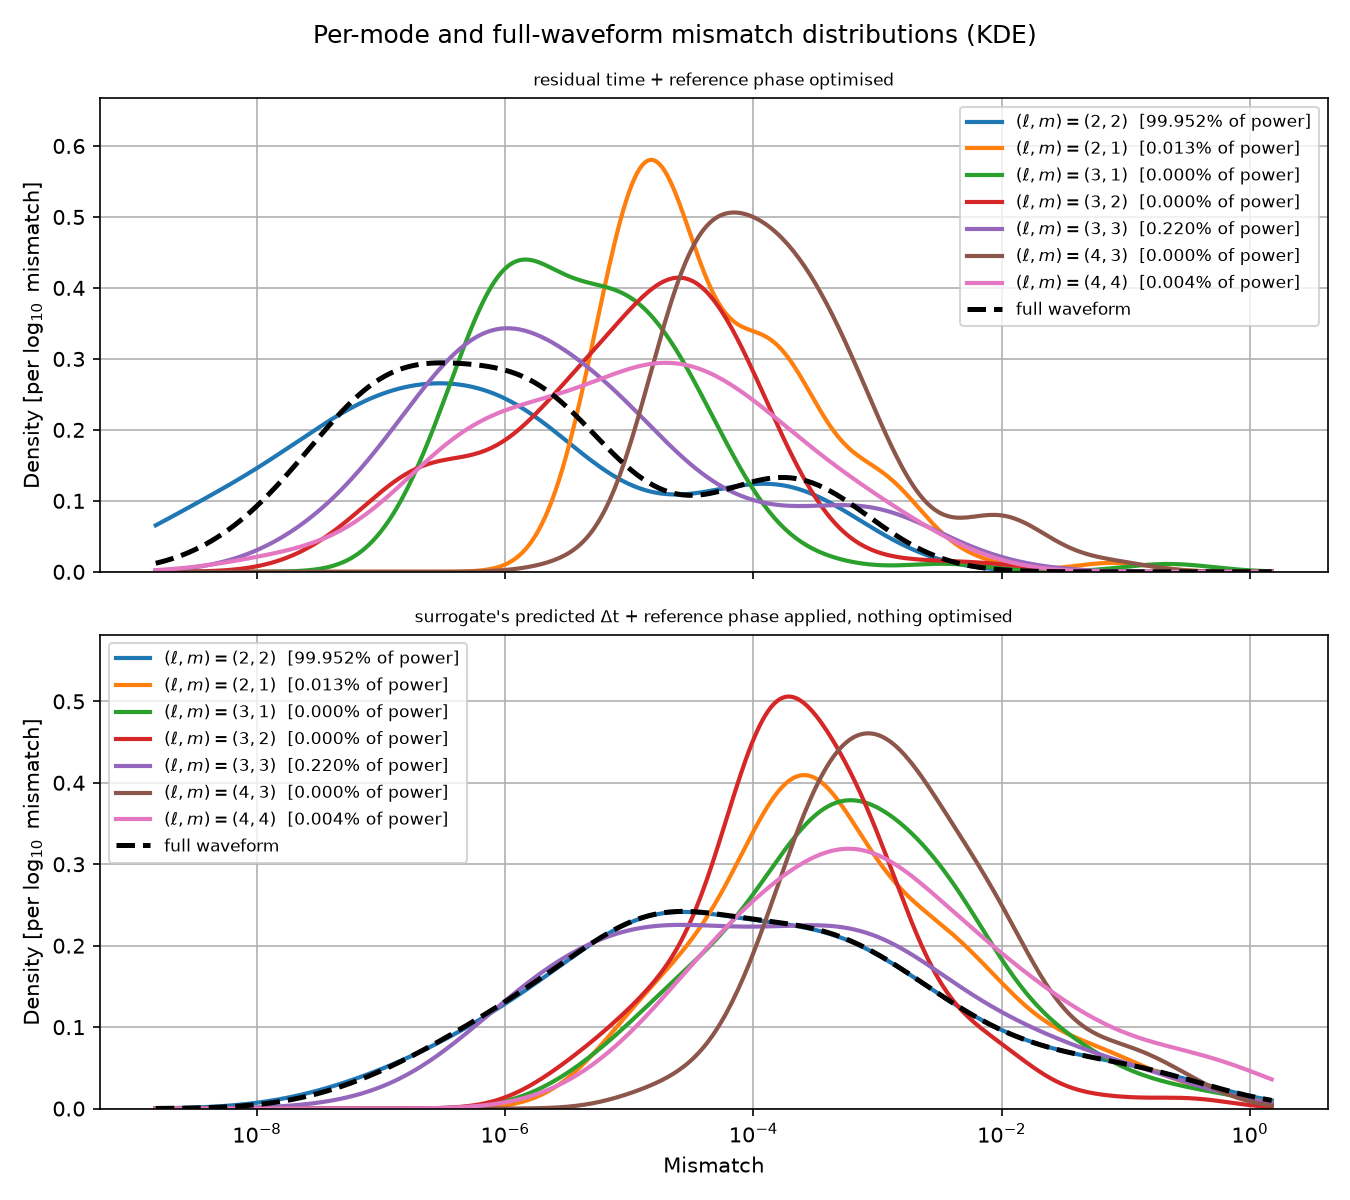
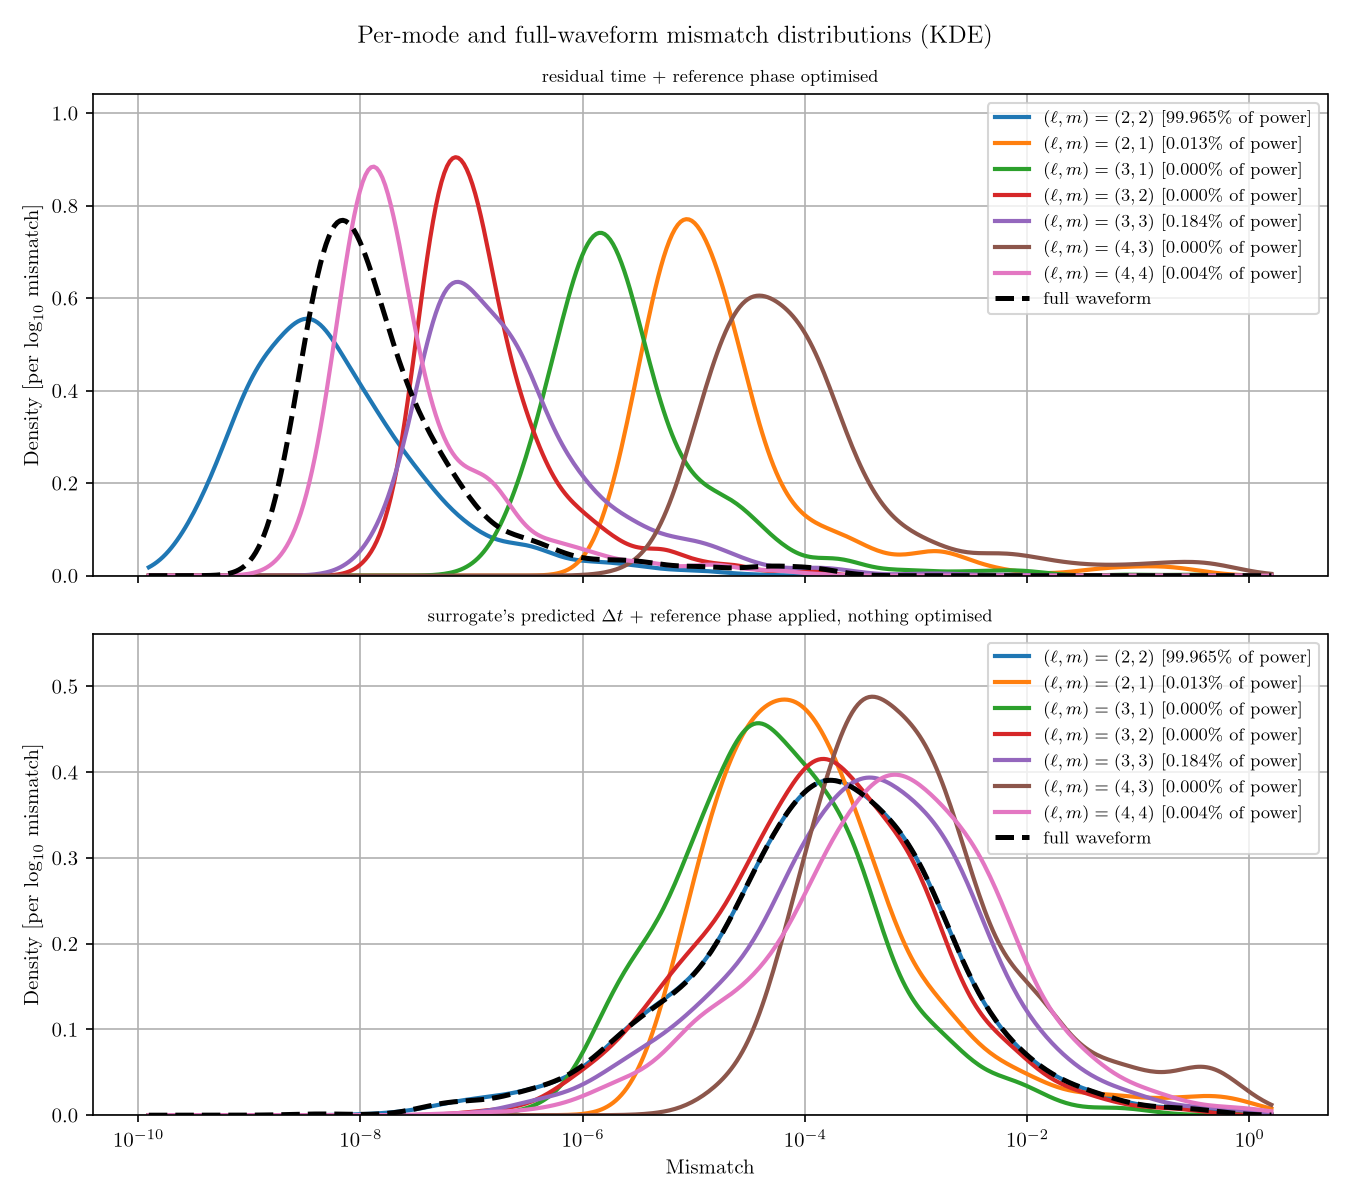
Docs: shipped models and precessing waveforms in the overview, updated to the 2.0 models

Changed region(s): [[0.0, 0.0, 0.9956, 0.9867], [0.0311, 0.925, 0.0622, 0.9558]]

diff --git a/mlgw_bns/data_management.py b/mlgw_bns/data_management.py
@@ -240,7 +240,7 @@ class ParameterRanges(SavableData):
     ----------
     mass_range : tuple[float, float]
             Range of valid total masses, in solar masses.
-            Defaults to (2.5., 4.).
+            Defaults to (2., 4.).
     q_range : tuple[float, float]
             Range of valid mass ratios.
             Defaults to (1., 3.).

diff --git a/docs/usage_guides/overview.md b/docs/usage_guides/overview.md
@@ -8,15 +8,34 @@ A `Model` is a multi-mode surrogate: it holds one `ModeModel` per
 spherical-harmonic mode $(\ell, m)$, and sums their contributions,
 weighted by the spin-weighted spherical harmonics, into the observer-frame
 polarizations $h_+$ and $h_\times$.
-The modes covered by the model shipped with the package are
+The modes covered by the models shipped with the package are
 $(2,2)$, $(2,1)$, $(3,1)$, $(3,2)$, $(3,3)$, $(4,3)$ and $(4,4)$
 (`mlgw_bns.model.DEFAULT_MODES`).
 
-The fastest way to access a functional instance of this object is to use
-the pretrained one:
+(shipped_models)=
+## The shipped models
+
+Two pretrained models come with the package, listed in
+`mlgw_bns.model.MODELS_AVAILABLE`; they differ only in the range of the
+tidal polarizabilities they are trained on (see
+[below](model_parameter_ranges) for the full ranges):
+
+| name | `lambda_1`, `lambda_2` | full-waveform mismatch, median / 90% | merger time error, median / 90% |
+|---|---|---|---|
+| `default_hom` (the default) | 5--2000 | 2.5e-8 / 4.6e-7 | 1.4 / 8.7 $\mu$s |
+| `default_hom_lambda12000` | 5--12000 | 9.1e-7 / 9.8e-6 | 36 / 132 $\mu$s |
+
+Both are trained on the same number of waveforms, so the narrower range is
+sampled more densely, and is more accurate; use `default_hom_lambda12000`
+only if tidal polarizabilities above 2000 are needed.
+
+The fastest way to access a functional instance of a `Model` is to load
+one of them:
 ```python
 from mlgw_bns import Model
-model = Model.default_for_testing()
+
+model = Model.default_for_testing()  # default_hom
+wide_model = Model.default_for_testing("default_hom_lambda12000")
 ```
 By default this loads every shipped mode; a subset can be requested
 instead with the `modes` keyword, which skips loading the files for the
@@ -26,6 +45,18 @@ from mlgw_bns.higher_order_modes import Mode
 
 model = Model.default_for_testing(modes=[Mode(2, 2), Mode(2, 1)])
 ```
+
+The regressors of the models are too large to be included in the package:
+they are downloaded the first time a model is loaded, and cached in
+`~/.cache/mlgw_bns` (or in `$MLGW_BNS_CACHE`, if set; see
+{mod}`mlgw_bns.model_files`). On machines without internet access, such as
+the compute nodes of a cluster, download them beforehand into a cache they
+can see:
+```bash
+MLGW_BNS_CACHE=/shared/mlgw_bns python -m mlgw_bns.model_files download default_hom
+```
+
+## Predicting waveforms
 
 Now we can predict waveforms; in order to do so however we
 pass the parameters through the `ParametersWithExtrinsic` class.
@@ -64,13 +95,79 @@ For many binaries at once, and for JAX, see
 {mod}`mlgw_bns.batched` (`model.predict_modes_amp_phase` and
 `model.jax_modes_amp_phase`).
 
+(precessing_waveforms)=
+## Generating precessing waveforms
+
+The surrogate is aligned-spin; precessing waveforms are obtained from it by
+twisting its multipoles with the Euler angles of the orbital plane, as
+TEOBResumS does (see [](precession) for the details and conventions).
+This is done by a {class}`PrecessingModel <mlgw_bns.precessing_model.PrecessingModel>`
+wrapping one of the models above, and requires the `jax` extra
+(`pip install "mlgw-bns[jax]"`).
+
+The spins are now three-vectors, given at the reference frequency
+`reference_frequency_hz` (the $(2,2)$ gravitational-wave frequency, as
+LALSuite's `f_ref`), in the frame where the orbital angular momentum is
+along $z$ there; `reference_phase` is the orbital phase at that frequency,
+and `azimuth` is the azimuthal angle of the line of sight:
+```python
+from mlgw_bns.precessing_model import PrecessingModel, PrecessingParametersWithExtrinsic
+
+precessing = PrecessingModel(model)
+
+params = PrecessingParametersWithExtrinsic(
+    mass_ratio=1.3,
+    lambda_1=400.0,
+    lambda_2=600.0,
+    chi_1=(0.3, 0.0, 0.05),
+    chi_2=(0.0, -0.3, 0.02),
+    distance_mpc=100.0,
+    inclination=1.0,
+    azimuth=0.3,
+    total_mass=2.8,
+    reference_phase=0.0,
+    reference_frequency_hz=20.0,
+)
+
+hp, hc = precessing.predict(frequencies, params)
+```
+The first call compiles the waveform, which takes a few seconds; later ones
+take ~20 ms. The binary can also be given by the LVK spin angles, as in
+LALSuite and bilby:
+```python
+lvk_params = PrecessingParametersWithExtrinsic.from_lvk(
+    mass_1=1.6,
+    mass_2=1.2,
+    theta_jn=0.5,
+    phi_jl=1.0,
+    tilt_1=0.8,
+    tilt_2=2.0,
+    phi_12=0.4,
+    a_1=0.3,
+    a_2=0.2,
+    phase=0.0,
+    reference_frequency_hz=20.0,
+    lambda_1=300.0,
+    lambda_2=700.0,
+    distance_mpc=40.0,
+)
+```
+
+For many binaries at once, `precessing.jax_predict()` returns a pure JAX
+function of a batch, which can be jitted, vmapped and differentiated;
+{func}`batch_arguments <mlgw_bns.batched_precession.batch_arguments>`
+builds its arguments:
+```python
+import jax
+from mlgw_bns.batched_precession import batch_arguments
+
+predict = jax.jit(precessing.jax_predict())
+hp, hc = predict(*batch_arguments([params, lvk_params], frequencies))
+# hp, hc have shape (2, len(frequencies))
+```
+
 (new_model)=
 ## Making a new model
-
-The simplest thing to do is to use the pretrained model provided with the package:
-```python
-m = Model.default_for_testing()
-```
 
 The way to create a new model from scratch is as follows:
 ```python
@@ -82,7 +179,8 @@ m.set_hyper_and_train_nn()
 ```
 
 For this to work `mlgw_bns` must be able to import
-`EOBRun_module`.
+`EOBRun_module`, from the fork of TEOBResumS the shipped models were
+trained with (see [](install_teobresums)).
 
 We can then save this model to file with `m.save()`; afterwards we
 will be able to recover it with
@@ -97,7 +195,7 @@ Each mode is stored in its own set of files, named
 merger time and coalescence phase of all of them.
 
 The hyperparameters used here are those provided with the package;
-to perform an optimization see [](hyperparameter_optimization).
+to perform an optimization see [](hyperparameter_optimization_section).
 
 ## Working with a single mode
 
@@ -113,7 +211,8 @@ The signature is the same as `Model.predict`. On its own, a mode is
 referenced to its own merger (the tangent to its own phase at the top of
 the band), which is the right one only for the $(2,2)$.
 
-### The parameter ranges for a new model
+(model_parameter_ranges)=
+## The parameter ranges
 
 These may change as the package is updated. For the default pretrained
 model shipped with the package, `default_hom`, the current ranges are
@@ -126,14 +225,11 @@ model shipped with the package, `default_hom`, the current ranges are
 - `chi_2`: between -0.5 and 0.5
 - frequencies: between 5 and 2048 Hz
 
-The other one, `default_hom_lambda12000`
-(`Model.default_for_testing("default_hom_lambda12000")`), covers tidal
-polarizabilities up to 12000 with the same training-set size, so with less
-accurate waveforms: its median mismatch is ~40 times higher, and its merger
-time ~25 times less accurate (tens of microseconds).
+The other one, `default_hom_lambda12000`, has the same ranges except for
+`lambda_1` and `lambda_2`, between 5 and 12000.
 
-A freshly-created `Model` uses narrower defaults instead (`lambda_1` and
-`lambda_2` between 5 and 5000), set by
+A freshly-created `Model` uses `lambda_1` and `lambda_2` between 5 and
+5000 instead, and otherwise the same ranges; they are set by
 {class}`ParameterRanges <mlgw_bns.data_management.ParameterRanges>` and
 customizable through the `parameter_ranges` argument of `ModeModel` (or of
 `Model`, which forwards it to every mode) when building a new model.

diff --git a/docs/usage_guides/profiling.md b/docs/usage_guides/profiling.md
@@ -87,16 +87,18 @@ uv run snakeviz prediction_profile.prof
 from the command line, and a local webpage containing an interactive visualization 
 of the execution times of the various internal functions.
 
-The expected result, if the length of the required frequencies 
-is of the order of a few thousands (as is needed, for example, with reduced order quadratures), 
-is that: 
-- most of the time will be taken by interpolation: the internal function 
-    is called `model.cartesian_waveforms_at_frequencies`, which calls 
-    `downsampling_interpolation.resample` twice (once for amplitude, once for phase),
-    and which in turns calls the scipy low-level functions `splrep` and `splev`;
-- some time is taken by the prediction of the waveforms (`mode_model.ModeModel.predict_waveforms_bulk`), of which
-  - some time (about half) is taken by the prediction of the residuals with the neural network and PCA:
-        `mode_model.ModeModel.predict_residuals_bulk`;
-  - some time (about half) is taken by the evaluation of the post-Newtonian amplitude and phase:
-        `dataset_generation.Dataset.recompose_residuals`;
+The expected result, for the shipped models and a few thousand frequencies
+(~100 ms for a call), is that:
+- most of the time (about two thirds) is taken by the kernel ridge
+    regressors predicting the principal components of each mode
+    (`neural_network.KernelRidgeNetwork.predict`, called by
+    `mode_model.ModeModel.predict_residuals_bulk`), since their cost scales
+    with the number of training waveforms;
+- some time is taken by the interpolation of the amplitude and phase of each
+    mode to the requested frequencies (`downsampling_interpolation.resample`),
+    and by reading the merger time and phase off the $(2,2)$ mode
+    (`model.Model.merger_reference`);
+- some time is taken by the evaluation of the post-Newtonian amplitudes and
+    phases the residuals are added to (`higher_order_modes`, `pn_modes`,
+    `taylorf2`);
 - any remaining time required should be comparatively small.

diff --git a/docs/usage_guides/install.rst b/docs/usage_guides/install.rst
@@ -10,16 +10,34 @@ From pip
     
     pip install mlgw-bns
 
-Having ``TEOBResumS`` installed is optional, but 
-the functionality of the package is currently severely hampered without it ---
-no new models can be generated, and the only possibility is to use the 
-one which is provided by default.
+This is enough to generate waveforms with the pretrained models (see
+:ref:`shipped_models`); their regressors are downloaded the first time
+they are used.
+Precessing waveforms (see :ref:`precessing_waveforms`) need JAX, which is
+an optional extra:
 
-It is available on PyPI, so it can be installed with 
+.. code-block:: bash
+    
+    pip install "mlgw-bns[jax]"
+
+.. _install_teobresums:
+
+TEOBResumS
+----------
+
+Having ``TEOBResumS`` installed is optional, but it is needed to generate
+new models and to compare against the reference waveforms.
+The shipped models are trained with a fork of it, the
+``initial-spa-fix`` branch of
+`github.com/jacopok/teobresums <https://github.com/jacopok/teobresums>`_:
+the public version aborts on some of the waveforms of the training sets,
+and its frequency-domain precessing waveforms have spurious :math:`2\pi`
+steps in the precession angle :math:`\alpha`.
+It can be installed with
 
 .. code-block:: bash
 
-    pip install teobresums
+    pip install "git+https://github.com/jacopok/teobresums@initial-spa-fix#subdirectory=Python"
 
 It is distributed as a source package which links against the 
 `GNU Scientific Library <https://www.gnu.org/software/gsl/>`_, so its 
@@ -47,7 +65,8 @@ and then run
 
 in the project directory.
 This creates a virtual environment in ``.venv/`` with all the dependencies, 
-``TEOBResumS`` included.
+the fork of ``TEOBResumS`` included; add ``--extra jax`` for the precessing
+waveforms.
 
 
 Testing and dev functionality

diff --git a/README.md b/README.md
@@ -16,12 +16,15 @@ the accuracy then steadily improves as more training waveforms are used.
 Currently, the only model used for training is [`TEOBResumS`](http://arxiv.org/abs/1806.01772),
 but it is planned to introduce the possibility to use others.
 
-The model shipped with the package covers the $(2,2)$, $(2,1)$, $(3,1)$,
-$(3,2)$, $(3,3)$, $(4,3)$ and $(4,4)$ spherical-harmonic modes.
-Below are the per-mode and full-waveform mismatch distributions against
-the underlying `TEOBResumS` waveforms: with the residual time shift and
-reference phase optimized (top), and with only the surrogate's own
-predicted alignment applied (bottom):
+The two models shipped with the package, `default_hom` (tidal
+polarizabilities up to 2000) and `default_hom_lambda12000` (up to 12000),
+cover the $(2,2)$, $(2,1)$, $(3,1)$, $(3,2)$, $(3,3)$, $(4,3)$ and $(4,4)$
+spherical-harmonic modes, for aligned spins; precessing waveforms are
+built from them by twisting the multipoles, as `TEOBResumS` does.
+Below are the per-mode and full-waveform mismatch distributions of
+`default_hom` against 1000 `TEOBResumS` waveforms: with the residual time
+shift and reference phase optimized (top), and with only the surrogate's
+own predicted alignment applied (bottom):
 
 ![mismatches](docs/images/mismatches.png)
 

diff --git a/CHANGELOG.md b/CHANGELOG.md
@@ -6,6 +6,15 @@ and this project adheres to [Semantic Versioning](https://semver.org/spec/v2.0.0
 
 ## [Unreleased]
 
+### Documentation
+
+- The overview lists the shipped models and how to load and download them,
+    and shows how to generate precessing waveforms; the installation guide
+    points to the fork of TEOBResumS the models are trained with and to the
+    `jax` extra. The profiling guide, the TEOBResumS comparison in the
+    precession page and the README's mismatch plot are updated to the
+    2.0 models.
+
 ## [2.0.1] - 2026-10-21
 
 ### Changed

diff --git a/docs/explanation/precession.md b/docs/explanation/precession.md
@@ -211,8 +211,8 @@ comparison can start at 20 Hz.
 :language: python
 ```
 
-This prints mismatches of $7.5 \times 10^{-8}$ for $h_+$ and
-$7.9 \times 10^{-8}$ for $h_\times$, with the Einstein Telescope noise curve,
+This prints mismatches of $1.4 \times 10^{-8}$ for $h_+$ and
+$1.0 \times 10^{-8}$ for $h_\times$, with the Einstein Telescope noise curve,
 optimised over a time shift and a constant phase. Leaving `reference_phase`
 at zero instead gives $6 \times 10^{-4}$.
 
